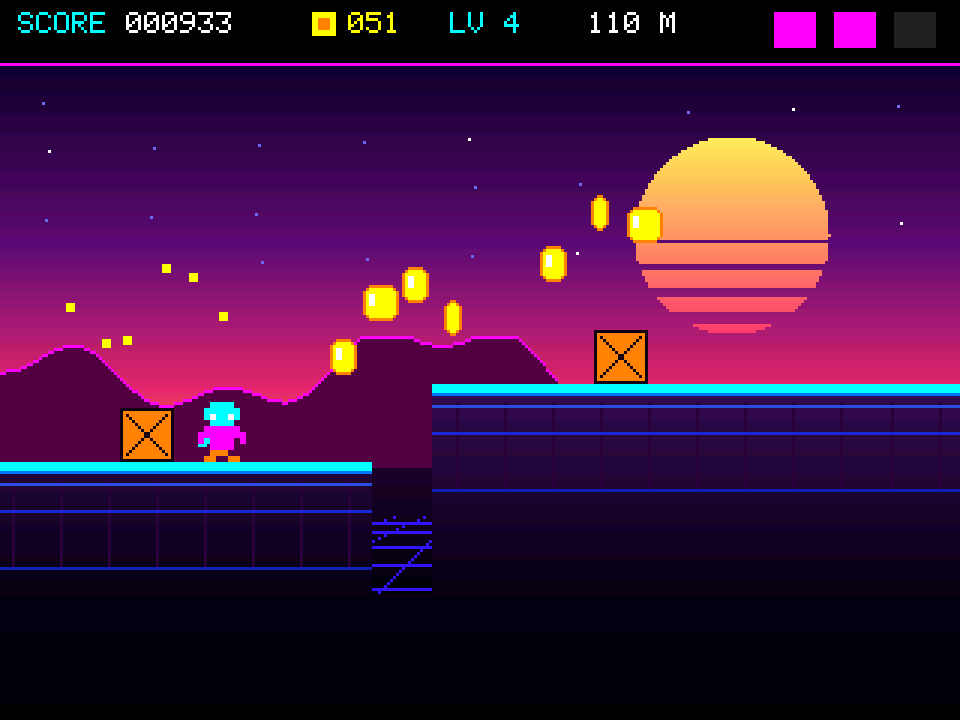
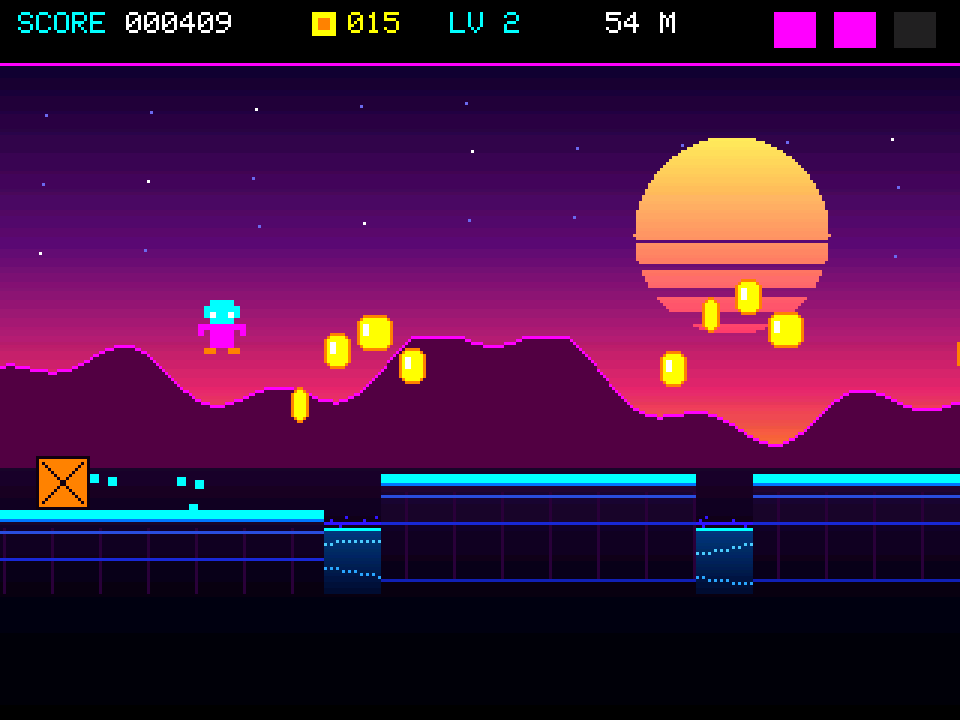
Water that actually kills, birds that punish mashing, rhythm runs
Two bugs from playing it on the board, plus the difficulty work.

Shallow gaps did not kill: you fell in and bobbed back out. The ground check
samples the runner's left and right edge and takes the highest surface so
landing on a lip counts, and I had dropped the "were you above it last frame?"
test to forgive clipping the side of a step. Together those rescued anyone who
fell into a narrow gap, because their shoulders still overlapped the far bank.
Forgiveness is now bounded: a snap-up is allowed only from at most 9 px below
the surface.

Gaps are now drawn as water, and touching the surface kills with no
invulnerability frames. Drawing the danger rather than leaving an empty void
is what makes the rule readable to a small child -- and a rule that only
sometimes applies is worse than no rule.

Endless "cink cink cink" after collecting coins was the note queue losing a
wakeup: g_playing was set by the producer and cleared by the consumer, so a
note enqueued during the 200 ms DMA drain had its flag cleared anyway, the
drain after it was skipped, and the I2S DMA re-transmitted its last buffer
forever -- the original "e e e e" failure reached from a new direction. It
stopped when you jumped because that queued a real drain. The flag is now only
cleared inside the critical section, and only if the queue is still empty.

Difficulty, aimed at what a 4- and an 8-year-old are actually learning:

- Level 1 starts at 88 px/s rather than 68. Still ~2.9 s of warning per
[…]

diff --git a/src/game.cpp b/src/game.cpp
@@ -40,6 +40,10 @@ static const int16_t APRON_Y = PLAY_Y + PLAY_H;   // y 198..239  drawn once
 static const int16_t HORIZON = 134;
 static const int16_t SUN_X = 244, SUN_Y = 56, SUN_R = 33;
 static const int16_t TOP_MIN = 106, TOP_MAX = 148;   // platform surface range
+// Water fills every gap, starting just below the lowest platform. Touching it
+// is death -- drawing the danger instead of leaving an empty void is what
+// makes the rule legible to a four-year-old.
+static const int16_t WATER_Y = TOP_MAX + 6;          // 154
 
 // ---------------------------------------------------------------------------
 // Palette -- deliberately tiny, 80s arcade.
@@ -144,7 +148,7 @@ static const float AIRTIME = T_UP + T_DOWN;                                     
 
 // Speed ramp. Deliberately slow at the start -- a 4-year-old has to be able
 // to see the gap coming before it arrives.
-static const float SPEED_0    = 68.0f;     // px/s at level 1
+static const float SPEED_0    = 88.0f;     // px/s at level 1
 static const float SPEED_STEP = 1.115f;    // per level
 static const float SPEED_MAX  = 235.0f;
 static const float LEVEL_DIST = 900.0f;    // px of ground per level
@@ -293,28 +297,52 @@ static void coinArc(float x0, float y0, uint8_t n) {
   }
 }
 
+// A rhythm run: the same obstacle, the same spacing, two or three times over.
+// Repetition is the thing a small child can actually learn from -- once the
+// first one is cleared, the next two are the *same movement* on a beat, which
+// is how timing gets into the hands. Endless novelty teaches nothing.
+static uint8_t runLeft;
+static float   runGap, runRise, runW;
+
 static void addSegment() {
   const Seg &p = segs[nseg - 1];
-  float gap = 0.0f;
+  float   gap = 0.0f, w;
   int16_t top = p.top;
+  float   actualRise = 0.0f;
 
-  if (prevHard) {
-    // Never two hard things in a row: give them a wide flat landing strip.
+  if (runLeft > 0) {
+    // Mid-run: reproduce the previous beat exactly.
+    runLeft--;
+    gap = runGap;
+    top = (int16_t)constrain((float)p.top - runRise, (float)TOP_MIN, (float)TOP_MAX);
+    actualRise = (float)(p.top - top);
+    w   = runW;
+  } else if (prevHard) {
+    // Never two *unrelated* hard things in a row: a wide flat landing strip.
     prevHard = false;
+    w = fmaxf(100.0f, speed * 1.00f) + frnd(0.0f, 70.0f);
   } else {
     const float rise = (random(100) < 45) ? frnd(4.0f, maxRise()) : 0.0f;
     const float drop = (rise == 0.0f && random(100) < 40) ? frnd(6.0f, 40.0f) : 0.0f;
     top = (int16_t)constrain((float)p.top - rise + drop, (float)TOP_MIN, (float)TOP_MAX);
+    actualRise = (float)(p.top - top);
 
-    const float actualRise = (float)(p.top - top);          // >0 means step up
-    if (random(100) < (level < 2 ? 35 : 70))
+    if (random(100) < (level < 2 ? 45 : 72))
       gap = frnd(18.0f, maxGapFor(actualRise));
 
+    w = fmaxf(90.0f, speed * 0.90f) + frnd(0.0f, 90.0f);
     prevHard = (gap > maxGapFor(actualRise) * 0.7f) || (actualRise > maxRise() * 0.7f);
+
+    // Turn this beat into a run. Only from level 2, and never for a step that
+    // also rises -- a repeated flat gap is a rhythm, a repeated staircase is
+    // just a wall.
+    if (level >= 2 && gap > 0.0f && actualRise <= 0.0f && random(100) < 38) {
+      runLeft = (uint8_t)random(2, 4);
+      runGap = gap; runRise = 0.0f; runW = w;
+      prevHard = false;              // the run IS the pattern; do not break it
+    }
   }
 
-  // Wide enough to land, breathe and take off again at the current speed.
-  const float w = fmaxf(90.0f, speed * 0.90f) + frnd(0.0f, 90.0f);
   if (nseg >= MAX_SEG) return;
   segs[nseg++] = { p.x + p.w + gap, w, top };
   const Seg &s = segs[nseg - 1];
@@ -325,8 +353,8 @@ static void addSegment() {
   if (gap > 0.0f) coinArc(p.x + p.w - 26.0f, (float)p.top, 4);
 
   // Crates: something to hop over. Never near an edge, where the player is
-  // busy landing, and never before level 2.
-  if (level >= 2 && s.w > 118.0f && random(100) < 55) {
+  // busy landing, and held back until the first stretch has been survived.
+  if (distance > 420.0f && s.w > 118.0f && random(100) < 55) {
     const float cx = s.x + frnd(48.0f, s.w - 58.0f);
     if (ncrate < MAX_CRATE) {
       crates[ncrate++] = { cx, (int16_t)(s.top - CRATE_S) };
@@ -408,6 +436,7 @@ static void newGame() {
 
   camX = 0; speed = SPEED_0; level = 1; score = 0; scoreAcc = 0; coinsGot = 0;
   lives = START_LIVES; distance = 0; prevHard = false; birdCombo = 0;
+  runLeft = 0;
   invuln = 0; coyote = 0; buffered = 0; usedDouble = false; holding = false;
 
   // Three flat, gapless segments to start on -- nothing to fail at yet, and a
@@ -509,6 +538,7 @@ static void step(float dt) {
   // --- vertical ---
   const float g = (vy < 0.0f) ? (holding ? G_UP_HELD : G_UP_FREE) : G_DOWN;
   vy = fminf(vy + g * dt, VY_MAX);
+  const float prevBottom = py + PLR_H;
   py += vy * dt;
 
   // Support: sample the player's left, middle and right so landing on the
@@ -523,11 +553,14 @@ static void step(float dt) {
 
   const bool wasGrounded = grounded;
   grounded = false;
-  // No prevBottom test on purpose. Platforms are solid columns with no
-  // undersides to jump through, so "feet at or below the surface while
-  // falling" can only mean landing -- or having clipped the side of a step,
-  // which we forgive by snapping up rather than burying the player in rock.
-  if (sup != NO_GROUND && vy >= 0.0f && py + PLR_H >= (float)sup) {
+  // You may only be snapped up onto a surface you were ABOVE last frame (or
+  // barely below, to forgive clipping the lip of a step). Without this test
+  // the wide left/right foot sampling above rescues you from narrow gaps --
+  // your shoulders still overlap the far bank, so falling in "landed" you.
+  // That was the shallow-water bug: small ponds simply did not kill.
+  const float SNAP_TOL = 9.0f;
+  if (sup != NO_GROUND && vy >= 0.0f &&
+      py + PLR_H >= (float)sup && prevBottom <= (float)sup + SNAP_TOL) {
     py = (float)sup - PLR_H;
     if (vy > 260.0f) puff(PLAYER_X + PLR_W / 2, py + PLR_H, C_CYAN, 3);
     vy = 0; grounded = true; usedDouble = false; birdCombo = 0;
@@ -541,18 +574,32 @@ static void step(float dt) {
   }
   if (invuln > 0.0f) invuln -= dt;
 
-  // --- fell down a pit ---
-  if (py > PLAY_H + 10.0f) {
+  // --- hit the water ---
+  // Every platform surface sits above WATER_Y, so feet at the waterline can
+  // only mean there is nothing underneath. No invulnerability frames here:
+  // water always kills, or the rule stops being a rule.
+  if (py + PLR_H >= (float)WATER_Y) {
+    for (uint8_t i = 0; i < 3; i++)
+      puff(PLAYER_X + PLR_W / 2, (float)WATER_Y, C_CYAN, 4);
+    puff(PLAYER_X + PLR_W / 2, (float)WATER_Y, C_WHITE, 4);
+    synthBeep(52, 70, WAVE_TRIANGLE, 90);
+    synthBeep(40, 120, WAVE_TRIANGLE, 90);
     invuln = 0;
-    hurt("pit");
+    hurt("water");
     if (state == ST_OVER) return;
     // Put them back on the next real ground ahead, mid-air, still moving.
+    bool placed = false;
     for (uint8_t i = 0; i < nseg; i++)
       if (segs[i].x > camX + PLAYER_X) {
         camX = segs[i].x - PLAYER_X + 8.0f;
         py   = segs[i].top - PLR_H - 40.0f;
+        placed = true;
         break;
       }
+    // Nothing generated ahead yet: park them safely rather than leaving the
+    // feet under the waterline, which would re-drown them every frame and
+    // burn all three lives in well under a second.
+    if (!placed) py = (float)(TOP_MIN - PLR_H - 20);
     vy = 0;
   }
 
@@ -565,11 +612,21 @@ static void step(float dt) {
   }
 
   // --- birds ---
-  if (level >= 3 && nbird < MAX_BIRD && random(1000) < 7) {
+  // From level 2, and only ever over solid ground: a bird hovering above
+  // water would force a jump into it, which is not a lesson, just a trap.
+  if (level >= 2 && nbird < MAX_BIRD && random(1000) < 9) {
     const float bx = camX + PLAY_W + 20.0f;
     const int16_t s = surfaceAt(bx, bx + BIRD_W);
-    const float base = (s == NO_GROUND) ? (float)TOP_MAX : (float)s;
-    birds[nbird++] = { bx, base - frnd(40.0f, 76.0f), frnd(0, 6.28f), true };
+    if (s != NO_GROUND) {
+      // Two flavours. A LOW bird clears a standing runner's head by a few
+      // pixels but is squarely in the path of a jump -- so it only ever
+      // punishes jumping when you did not need to. That is the whole point:
+      // with one button, deciding NOT to press is the other half of the
+      // skill, and nothing else in the game teaches it.
+      const bool low = random(100) < 55;
+      const float h  = low ? frnd(34.0f, 52.0f) : frnd(60.0f, 82.0f);
+      birds[nbird++] = { bx, (float)s - h, frnd(0, 6.28f), true };
+    }
   }
   for (uint8_t i = 0; i < nbird; i++) {
     Bird &b = birds[i];
@@ -704,10 +761,25 @@ static void drawBackground() {
   for (int8_t i = -4; i <= 12; i++) {
     const float xb = i * 40.0f - vo;
     const float xh = 160.0f + (xb - 160.0f) * 0.25f;   // converge on the centre
-    for (int16_t y = GRID_TOP; y < PLAY_H; y++) {
+    for (int16_t y = GRID_TOP; y < WATER_Y; y++) {
       const float t = (float)(y - GRID_TOP) / (PLAY_H - GRID_TOP);
       cv->drawPixel((int16_t)(xh + (xb - xh) * t), y, C_GRID);
     }
+  }
+
+  // Water. Drawn full width here and then covered by the platforms, so it
+  // shows through exactly where there is a gap -- and nowhere else.
+  for (int16_t y = WATER_Y; y < PLAY_H; y++) {
+    const float t = (float)(y - WATER_Y) / (float)(PLAY_H - WATER_Y);
+    cv->drawFastHLine(0, y, PLAY_W, lerpRGB(0, 60, 130, 0, 10, 48, t));
+  }
+  cv->drawFastHLine(0, WATER_Y, PLAY_W, C_CYAN);          // bright surface line
+  const float ph = millis() / 220.0f;
+  for (int16_t x = 0; x < PLAY_W; x += 2) {               // moving glints
+    const int16_t wy = WATER_Y + 4 + (int16_t)(2.5f * (1.0f + sinf(x * 0.09f + ph)));
+    cv->drawPixel(x, wy, 0x4E5F);
+    const int16_t wy2 = WATER_Y + 13 + (int16_t)(3.0f * (1.0f + sinf(x * 0.06f - ph * 1.3f)));
+    if (wy2 < PLAY_H) cv->drawPixel(x, wy2, 0x2D3F);
   }
 }
 
@@ -926,7 +998,9 @@ int gameProbe(float dx) {
     if (x + PLR_W > crates[i].x && x < crates[i].x + CRATE_S) return 2;
   for (uint8_t i = 0; i < nbird; i++)
     if (x + PLR_W > birds[i].x && x < birds[i].x + BIRD_W) return 3;
-  return surfaceAt(x, x + PLR_W) == NO_GROUND ? 1 : 0;
+  // Narrow window: sampling the runner's full width here would straddle both
+  // banks of a small gap and report solid ground over open water.
+  return surfaceAt(x + PLR_W / 2 - 1, x + PLR_W / 2 + 1) == NO_GROUND ? 1 : 0;
 }
 bool     gameGrounded() { return grounded; }
 int      gameState()    { return (int)state; }

diff --git a/src/synth.cpp b/src/synth.cpp
@@ -65,6 +65,22 @@ static bool qPush(uint8_t midi, uint16_t ms, Wave w, uint8_t vol) {
   return ok;
 }
 
+// Clear g_playing ONLY if the queue is still empty at this exact instant.
+// The consumer must not blindly clear a flag the producer may have just set:
+// a note enqueued during the 200 ms drain would otherwise leave g_playing
+// false while it plays, so the drain after it is skipped and the I2S DMA
+// re-transmits that last note forever. That is audible as an endless
+// "cink cink cink" after collecting coins, which stops as soon as any other
+// sound is queued (jumping) because that queues a real drain again.
+static bool qFinishIfStillEmpty() {
+  bool empty;
+  portENTER_CRITICAL(&g_qMux);
+  empty = (g_qHead == g_qTail);
+  if (empty) g_playing = false;
+  portEXIT_CRITICAL(&g_qMux);
+  return empty;
+}
+
 static bool qPop(QNote *out) {
   bool ok = false;
   portENTER_CRITICAL(&g_qMux);
@@ -167,11 +183,14 @@ static void synthTask(void *) {
         g_currentMidi = 0;
         flushSilence(DMA_DRAIN_MS);    // push the last note out, or it loops
         g_ampIdleSince = millis();
-        g_playing      = false;
+        // If something was queued while we were draining, stay "playing" so
+        // the drain after THAT note still happens.
+        qFinishIfStillEmpty();
       }
       vTaskDelay(pdMS_TO_TICKS(4));
       continue;
     }
+    g_playing = true;                  // a note in hand always counts as busy
     ampWakeForPlayback();              // no-op once the amp is already up
     playNote(n.midi, n.ms, (Wave)n.wave, n.vol);
   }

diff --git a/README.md b/README.md
@@ -138,6 +138,25 @@ them:
   plus a margin. Tunable live over serial (`+`/`-` margin, `[`/`]` span) with
   no reflash needed.
 
+- **A queue whose "busy" flag is written by both ends will lose a wakeup.**
+  The synth's `g_playing` was set by the producer and cleared by the consumer.
+  A note enqueued *during* the 200 ms DMA drain got its flag cleared anyway,
+  so the drain after that note was skipped — and the I2S DMA went back to
+  re-transmitting its last buffer forever (the same failure mode as the
+  original "e e e e" bug, arrived at from a completely different direction).
+  Audible as an endless "cink cink cink" after collecting coins, which stops
+  the moment any other sound is queued, because that queues a real drain.
+  Fixed by only clearing the flag inside the critical section, and only if the
+  queue is still empty at that instant.
+
+- **Generous collision forgiveness will happily rescue you from a hole.** The
+  runner's ground check samples its left *and* right edge and takes the
+  highest surface, so landing on the lip of a platform counts. Combined with
+  dropping the "were you above it last frame?" test, that meant falling into a
+  narrow gap still found ground — the shoulders overlapped the far bank — and
+  the player bobbed back out instead of drowning. Forgiveness has to be
+  bounded: a snap-up is now allowed only from at most 9 px below the surface.
+
 - **The arcade button's LED lamp resistor was found by reading the colour
   bands**: blue-grey-brown-gold = 6, 8, ×10, ±5% = 680 Ω (read right-to-left,
   gold/tolerance last).
@@ -245,22 +264,62 @@ rather than as death.
 ### Rules
 
 - **Coins** (yellow/orange, spinning) — 10 points.
-- **Crates** — jump over them, or land on top; walking into the side costs a life.
-- **Birds** — appear from level 3. Stomp them from above (50 × combo points)
-  or lose a life.
-- **Pits** — fall in and you lose a life, then get dropped back in above the
-  next platform rather than being sent to the title screen.
+- **Crates** — jump over them, or land on top; walking into the side costs a
+  life. They start once the first stretch has been survived (~420 px in).
+- **Birds** — from level 2. Stomp them from above (50 × combo points) or lose
+  a life. About half fly *low* — see below.
+- **Water** — fills every gap. Touching the surface costs a life, always;
+  there are no invulnerability frames on water. You are then dropped back in
+  above the next platform rather than being sent to the title screen.
 - 3 lives. Losing one also drops you back a level, so a bad patch gets
   *easier*, not harder.
 - Best score is saved to flash (NVS, key `best`).
 
+### Designing it for a 4-year-old
+
+The point of a one-button game at this age isn't the score, so the mechanics
+are chosen around what they actually train:
+
+- **Graded control of a binary input.** Tap versus hold is the whole reason
+  jump height is continuous rather than fixed — the same button has to be
+  pressed *differently*, which is a genuinely useful motor skill and the only
+  analogue dimension a single arcade switch has.
+- **Inhibition — not pressing is also a move.** Roughly half the birds fly
+  *low*: they clear a standing runner's head by a few pixels, so they are
+  harmless if you keep running and only ever hit you if you jumped when you
+  didn't need to. Nothing else in the game punishes mashing the button, and
+  without that there is no reason to ever stop pressing it. Low birds are
+  never placed over water, where jumping is compulsory — that would be a trap,
+  not a lesson.
+- **Rhythm and repetition.** From level 2 the generator sometimes emits a
+  **run**: the same gap, at the same spacing, two or three times. Once the
+  first is cleared the next two are the identical movement on a beat, which is
+  how timing gets into the hands. Endless novelty teaches nothing, so runs
+  deliberately override the "no two hard things in a row" rule — a repeated
+  obstacle is *easier* than a random one, not harder.
+- **Consistent consequences.** Water always kills. A rule that only sometimes
+  applies is worse than no rule, which is exactly why the original
+  shallow-gap bug had to go (see [Learnings](#learnings)).
+- **Forgiveness where the failure is motor, not mental.** Coyote time and jump
+  buffering mean a press that is slightly early or slightly late still does
+  what the child *meant*. Small children know what they want to do well before
+  they can time it.
+- **Failure is cheap.** Drowning costs a life but drops you back in and keeps
+  going, and losing a life lowers the speed — so a struggling player naturally
+  settles at their own level instead of hitting a wall.
+
 ### Difficulty ramp
 
-Level 1 runs at **68 px/s** — deliberately slow enough that a small child can
-see a gap coming. Every 900 px of ground is a level, each 11.5 % faster, up
-to a 235 px/s cap. Crates start at level 2, birds at level 3, and the first
-three segments of every run are flat and gapless so there is nothing to fail
-at before you have moved.
+Level 1 runs at **88 px/s** — slow enough that a small child can see a gap
+coming (an obstacle is on screen for ~2.9 s before it arrives), but not a
+crawl. Every 900 px of ground is a level, each 11.5 % faster, up to a 235 px/s
+cap — at which point the warning drops to ~1.1 s, which is the 8-year-old's
+end of the range.
+
+Difficulty ramps in **kinds**, not only speed, introducing one skill at a
+time: gaps first, then crates (~420 px in), then birds and rhythm runs from
+level 2. The first three segments of every run are flat and gapless so there
+is nothing to fail at before you have moved.
 
 ### The "mostly always reachable" terrain generator
 
@@ -281,7 +340,8 @@ AIRTIME = T_UP + T_DOWN                 ~0.63 s  how long you are off the ground
   are capped at 42 % of the full jump height (~27 px), which means they are
   clearable even with a short hop.
 - **Rhythm**: a segment that was hard (big gap or tall step) forces the next
-  one to be flat, gapless and wide — never two hard things in a row.
+  one to be flat, gapless and wide — never two *unrelated* hard things in a
+  row. Deliberate rhythm runs are the exception, and override it.
 - Landing strips are at least `speed × 0.85` wide, so there is always room to
   land, breathe, and take off again at the current speed.
 
